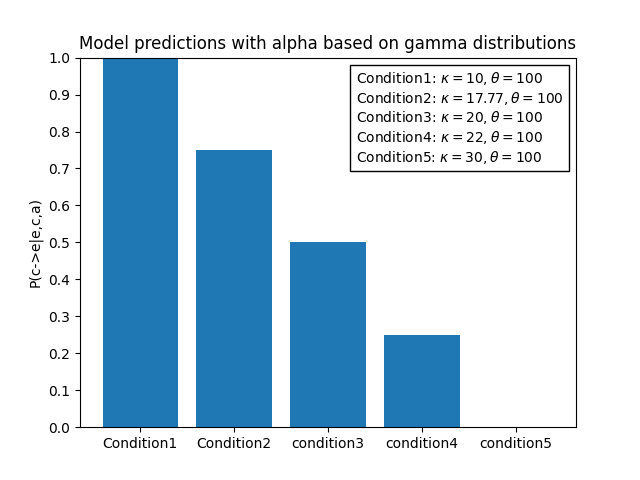
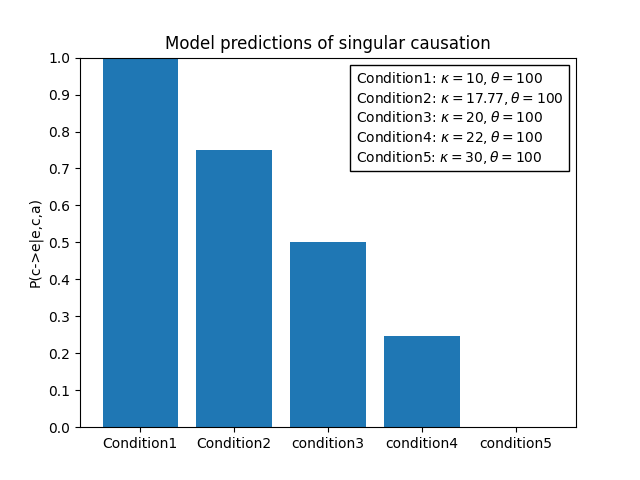
minor changes to figures

Changed region(s): [[0.125, 0.0625, 0.9062, 0.125]]

diff --git a/model/model.py b/model/model.py
@@ -13,7 +13,7 @@ def plot_exp2(x, y):
     text4 = r'Condition4: $\kappa = 22, \theta = 100 $'+ "\n"
     text5 = r'Condition5: $\kappa = 30, \theta = 100 $'
     anchor = AnchoredText(text1+text2+text3+text4+text5, loc="upper right")
-    title = "Model predictions with alpha based on gamma distributions" 
+    title = "Model predictions of singular causation" 
     fig, ax = plt.subplots()
     ax.bar(x, y)
     ax.yaxis.set_major_locator(ticker.MultipleLocator(0.1))
@@ -157,6 +157,6 @@ def run_exp3():
 
 if __name__ == "__main__":
     # print(run_exp1())
-    # print(run_exp2())
-    print(run_exp3())
+    print(run_exp2())
+    # print(run_exp3())
 
